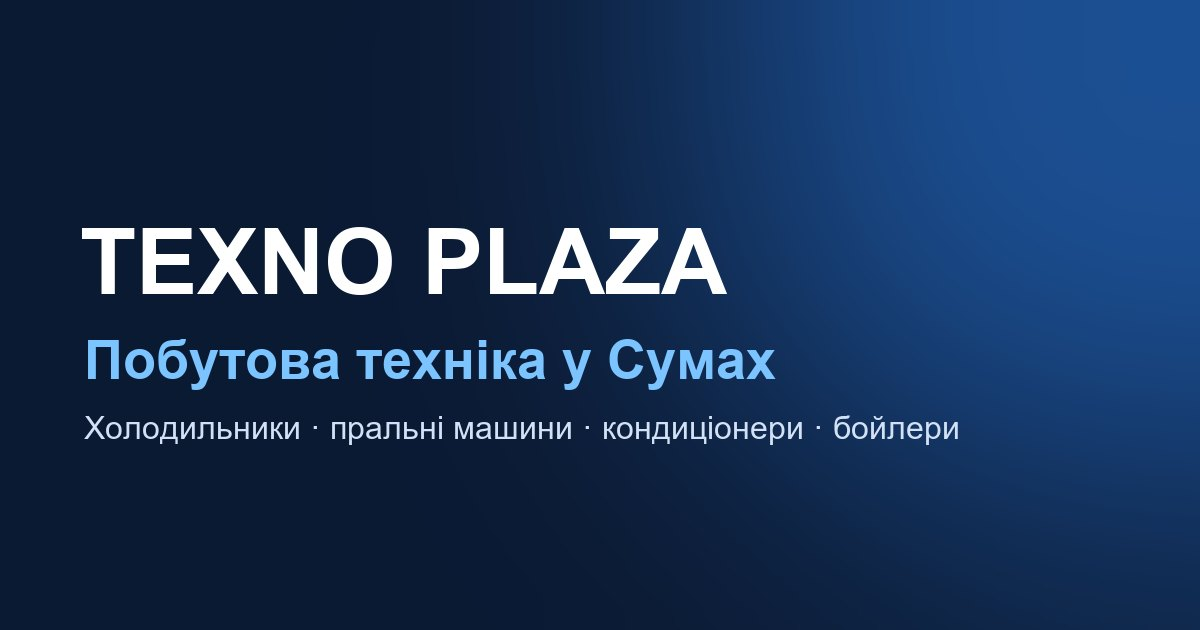
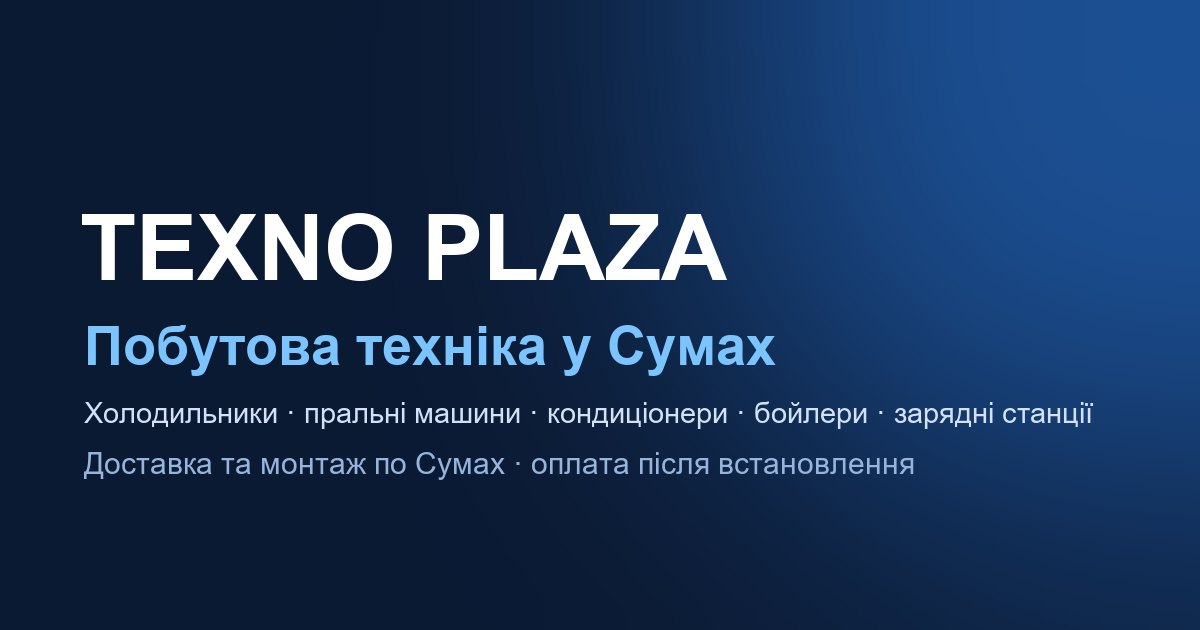
Name every category on the share card, drop the hero stat strip
The card listed four categories and no service. It names all five now,
with a second line for delivery and installation — the two things the
shop is actually asked about on the phone. Five categories overran the
1200px canvas at the old fixed 32pt, so both lines are fitted to the
width instead of trusting a hardcoded size.

The hero stat strip goes: 10+ years, stock count, five fitters, five
years. Removed with the CSS, the count-up animation that observed it,
and the four strings behind it, rather than leaving markup nobody
renders. The remaining column still centres against the product cards,
so the hero does not go lopsided.

Changed region(s): [[0.0617, 0.5127, 0.925, 0.754], [0.0617, 0.3317, 0.4317, 0.4825], [0.4008, 0.3317, 0.6167, 0.4825]]

diff --git a/assets/css/main.css b/assets/css/main.css
@@ -82,10 +82,6 @@ nav a:hover{color:#fff;background:rgba(124,196,255,.1)}
 .btn-primary:hover{background:var(--blue-d);transform:translateY(-2px);box-shadow:0 14px 36px rgba(46,139,255,.4)}
 .btn-ghost{background:rgba(255,255,255,.06);color:#fff;padding:15px 26px;border-radius:12px;font-size:16px;font-weight:600;font-family:var(--disp);border:1.5px solid rgba(124,196,255,.3);transition:.2s;display:inline-flex;align-items:center;gap:9px}
 .btn-ghost:hover{background:rgba(124,196,255,.14);border-color:rgba(124,196,255,.55)}
-.hero-stats{display:flex;gap:30px;flex-wrap:wrap}
-.hstat .n{font-family:var(--disp);font-size:27px;font-weight:800;color:#fff;line-height:1}
-.hstat .n span{color:var(--frost)}
-.hstat .l{font-size:12.5px;color:rgba(233,243,255,.5);margin-top:5px}
 /* ---- premium flourishes ---- */
 .hero-aurora{position:absolute;inset:0;pointer-events:none;z-index:0;background:radial-gradient(38% 48% at 16% 22%,rgba(46,139,255,.30),transparent 70%),radial-gradient(34% 42% at 86% 14%,rgba(124,196,255,.22),transparent 70%),radial-gradient(46% 52% at 72% 92%,rgba(46,139,255,.18),transparent 70%);filter:blur(6px);animation:auroraMove 18s ease-in-out infinite alternate}
 @keyframes auroraMove{0%{transform:translate3d(0,0,0) scale(1)}50%{transform:translate3d(-3%,2%,0) scale(1.08)}100%{transform:translate3d(3%,-2%,0) scale(1.05)}}
@@ -528,7 +524,6 @@ footer{background:var(--navy);color:rgba(233,243,255,.6);padding:54px 0 0}
 @media(max-width:520px){
   .trust-in,.adv-grid,.rev-grid,.steps,.foot-in,.svc-grid,.pay-grid{grid-template-columns:1fr}
   .gc-readout{grid-template-columns:1fr 1fr 1fr}
-  .hero-stats{gap:20px}
   .section{padding:54px 0}
 }
 @media(prefers-reduced-motion:reduce){

diff --git a/assets/js/main.js b/assets/js/main.js
@@ -625,20 +625,6 @@ document.querySelectorAll('a[href*="380991108041"]').forEach(()=>{});
     for(let i=0;i<9;i++){const s=document.createElement('div');s.className='flake';s.textContent='❄';s.style.left=(Math.random()*100).toFixed(1)+'%';s.style.fontSize=(8+Math.random()*9).toFixed(0)+'px';s.style.animationDuration=(11+Math.random()*12).toFixed(1)+'s';s.style.animationDelay=(-Math.random()*14).toFixed(1)+'s';wrap.appendChild(s);}
     hero.insertBefore(wrap,hero.firstChild);
   }
-  /* count-up hero stats */
-  const cu=document.querySelectorAll('.hstat .n');
-  if(!reduce && cu.length){
-    cu.forEach(el=>el.dataset.cu=el.innerHTML);
-    const cio=new IntersectionObserver(es=>es.forEach(e=>{
-      if(!e.isIntersecting)return;cio.unobserve(e.target);
-      const el=e.target,html=el.dataset.cu,m=html.match(/^\s*(\d+)/);if(!m)return;
-      const target=+m[1];let t0;const dur=1200;
-      requestAnimationFrame(function step(ts){t0=t0||ts;const p=Math.min(1,(ts-t0)/dur);
-        const v=Math.round(target*(1-Math.pow(1-p,3)));el.innerHTML=html.replace(/^\s*\d+/,v);
-        if(p<1)requestAnimationFrame(step);});
-    }),{threshold:.6});
-    cu.forEach(el=>cio.observe(el));
-  }
 })();
 
 /* ============ QUIZ ENGINE ============

diff --git a/templates/body.html b/templates/body.html
@@ -73,12 +73,6 @@
         </a>
         <a href="#cats" class="btn-ghost" data-i18n="hero_cta2">Обрати категорію</a>
       </div>
-      <div class="hero-stats">
-        <div class="hstat"><div class="n">10+</div><div class="l" data-i18n="st_years">років на ринку</div></div>
-        <div class="hstat"><div class="n">{{TOTAL}}</div><div class="l" data-i18n="st_models">товари в наявності</div></div>
-        <div class="hstat"><div class="n">5</div><div class="l" data-i18n="st_masters">майстрів з допуском</div></div>
-        <div class="hstat"><div class="n">5 <span>р.</span></div><div class="l" data-i18n="st_guar">гарантія</div></div>
-      </div>
     </div>
     <div class="hero-vis two">
       <!--HERO_CARD-->

diff --git a/scripts/gen_images.py b/scripts/gen_images.py
@@ -49,11 +49,25 @@ def og_bg():
     im = Image.composite(glow, im, g.filter(ImageFilter.GaussianBlur(160)))
     return im
 
+def fitted(d, text, size, maxw, bold=False):
+    """Largest font at or below `size` whose line still fits `maxw`."""
+    while size > 14:
+        f = font(size, bold)
+        if d.textlength(text, font=f) <= maxw:
+            return f
+        size -= 1
+    return font(14, bold)
+
+
 def default_og():
     im = og_bg(); d = ImageDraw.Draw(im)
-    d.text((80, 210), "TEXNO PLAZA", font=font(92), fill=WHITE)
-    d.text((84, 330), "Побутова техніка у Сумах", font=font(54), fill=FROST)
-    d.text((84, 410), "Холодильники · пральні машини · кондиціонери · бойлери", font=font(32, False), fill=(210, 225, 245))
+    cats = "Холодильники · пральні машини · кондиціонери · бойлери · зарядні станції"
+    serv = "Доставка та монтаж по Сумах · оплата після встановлення"
+    d.text((80, 196), "TEXNO PLAZA", font=font(92), fill=WHITE)
+    d.text((84, 316), "Побутова техніка у Сумах", font=font(54), fill=FROST)
+    # five categories overrun 1200px at the old fixed 32pt, so the line is fitted
+    d.text((84, 396), cats, font=fitted(d, cats, 32, 1032), fill=(210, 225, 245))
+    d.text((84, 446), serv, font=fitted(d, serv, 30, 1032), fill=(150, 180, 220))
     im.save(os.path.join(OG, "default.jpg"), quality=86)
 
 # What the shop actually promises for this kind of product. A washing machine
